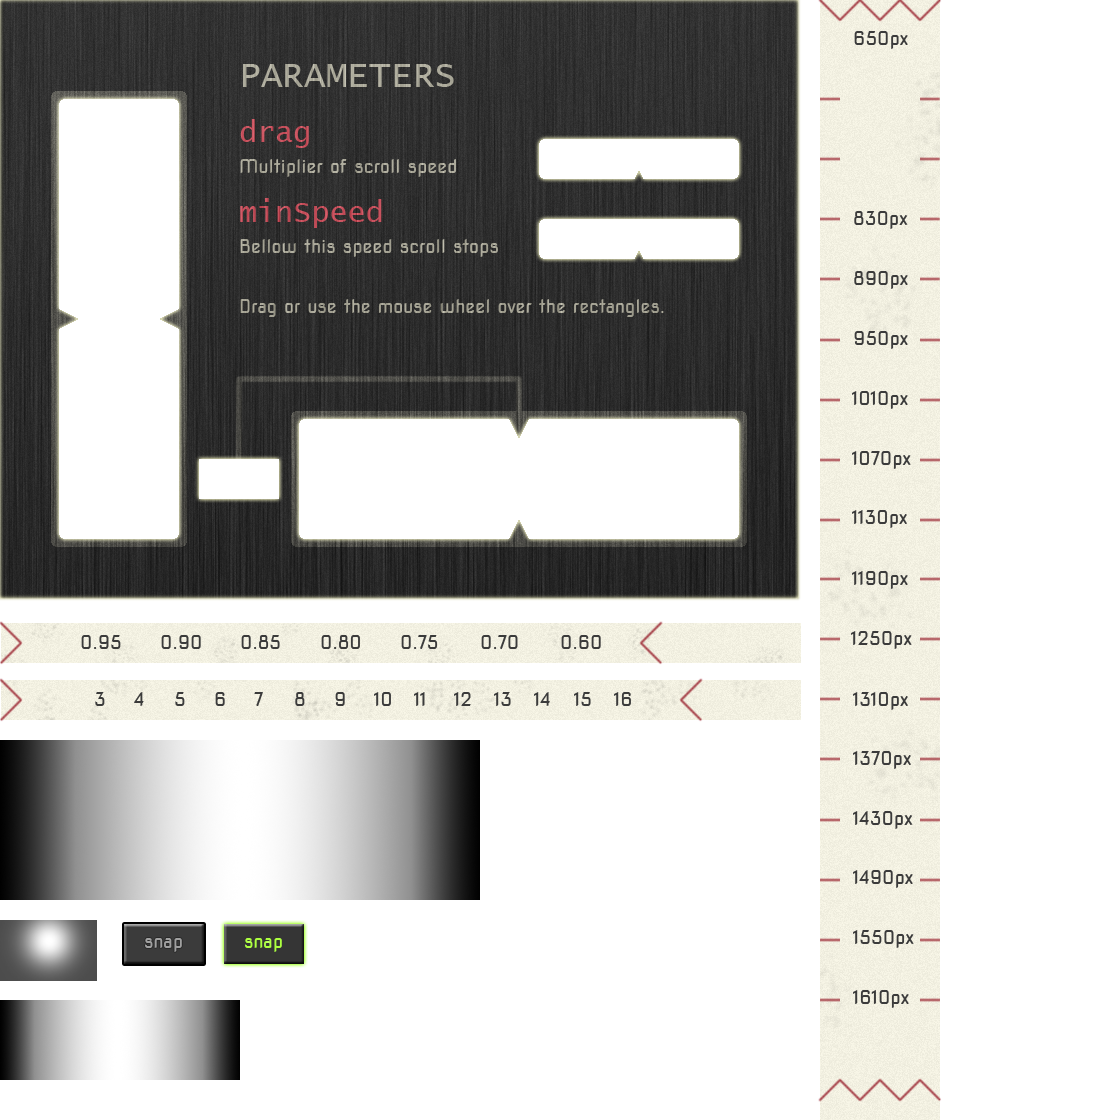
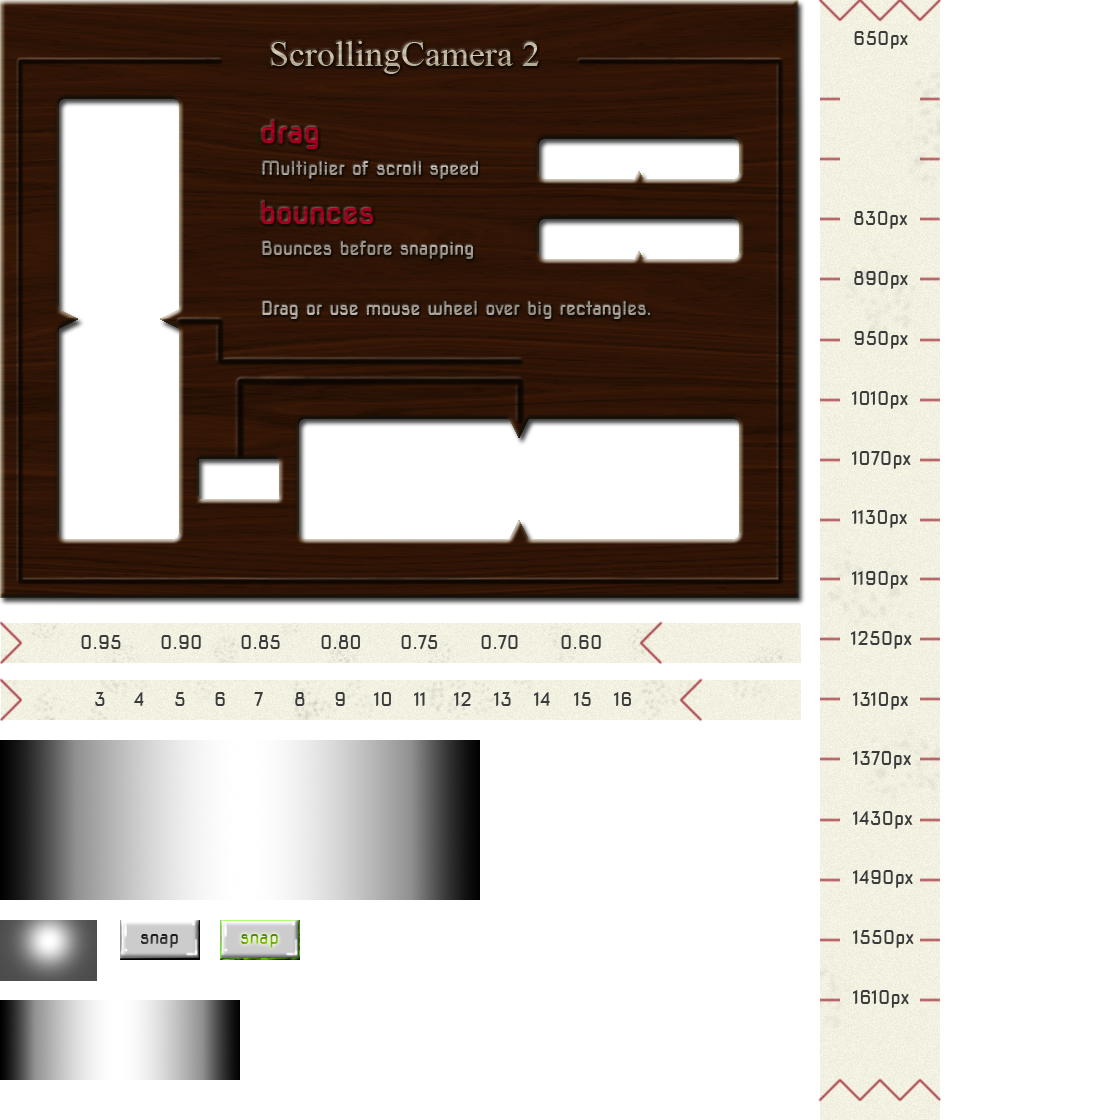
Demo: new gui

Changed region(s): [[0.0, 0.0, 0.7188, 0.5625], [0.0938, 0.8125, 0.2812, 0.875]]

diff --git a/demo/js/scenes/test.js b/demo/js/scenes/test.js
@@ -8,27 +8,27 @@ class Test extends Phaser.Scene {
     //// Images
 
     const contentCamera1 = this.add.image(60,100,'atlas','content').setOrigin(0);
-    const shade1 = this.add.image(60 - 20 ,100 - 20, 'atlas','horizontal-shade').setOrigin(0,1).setAngle(90);
+    const shade1 = this.add.image(40 ,80, 'atlas','horizontal-shade').setOrigin(0,1).setAngle(90);
 
-    const contentCamera2 = this.add.image(300 ,600-60,'atlas','content').setOrigin(0).setAngle(-90);
-    const shade2 = this.add.image(300 - 20,600-60, 'atlas','horizontal-shade').setOrigin(0,1);
+    const contentCamera2 = this.add.image(300 ,540,'atlas','content').setOrigin(0).setAngle(-90);
+    const shade2 = this.add.image(280,540, 'atlas','horizontal-shade').setOrigin(0,1);
 
     const contentCamera3 = this.add.image(540, 140, 'atlas', 'drag').setOrigin(0);
-    const shade3 = this.add.image(540 - 20, 140 - 20, 'atlas', 'param-shade').setOrigin(0);
+    const shade3 = this.add.image(520, 120, 'atlas', 'param-shade').setOrigin(0);
 
     const contentCamera4 = this.add.image(540, 220, 'atlas', 'minspeed').setOrigin(0);
-    const shade4 = this.add.image(540 - 20, 220 -20, 'atlas', 'param-shade').setOrigin(0);
+    const shade4 = this.add.image(520, 200, 'atlas', 'param-shade').setOrigin(0);
     
 
-    this.add.image(200, 600 - 60 - 40, 'atlas', 'value-background').setOrigin(0,1);
-    this.txtValue = this.add.text(200 + 40, 600 - 60 - 40 -45 + 23, '--', {color: '#000000'}).setOrigin(0.5,0.5);
-    this.add.image(200 - 20, 600 - 60 - 40, 'atlas', 'value-shade').setOrigin(0,1);
+    this.add.image(200, 500, 'atlas', 'value-background').setOrigin(0,1);
+    this.txtValue = this.add.text(240, 500 -45 + 23, '--', {color: '#000000'}).setOrigin(0.5,0.5);
+    this.add.image(180, 500, 'atlas', 'value-shade').setOrigin(0,1);
     
     const body = this.add.image(0,0,'atlas','body').setOrigin(0);
 
     // Button
 
-    this.button = new Button(this, 475, 350, 'atlas', 'bt-snap-off', 'bt-snap-on', true);
+    this.button = new Button(this, 475, 350, 'atlas', 'bt-snap-off', 'bt-snap-on', false);
     this.setButton();
     
 
@@ -59,8 +59,10 @@ class Test extends Phaser.Scene {
     this.button.on('pointerdown', () => {
       this.button.switchState();
       if(this.button.pressed){
-        this.camera2.snap.enable = true;
+        this.camera1.snap.enable = true;
+        this.camera2.snap.enable = true;        
       } else {
+        this.camera1.snap.enable = false;
         this.camera2.snap.enable = false;
         this.txtValue.setText('--');
       }
@@ -71,15 +73,20 @@ class Test extends Phaser.Scene {
     function getValue(snapIndex, initialValue, increment){
       return snapIndex * increment + initialValue;
     }
+    // Snap event of "drag" camera
     this.camera3.on('snap', (snapIndex) => {
       const drag = getValue(snapIndex, 0.95, -0.05);
       this.camera1.drag = drag;
       this.camera2.drag = drag;
     });
+
+    // Snap event of "bounces" camera
     this.camera4.on('snap', (snapIndex) => {
-      const minSpeed = getValue(snapIndex, 3, 1);
-      this.camera2.minSpeed = minSpeed;
+      const bounces = getValue(snapIndex, 3, 1);
+      this.camera2.snap.bounces = bounces;
     });
+
+    // Snap event of big horizontal camera
     this.camera2.on('snap', (snapIndex) => {
       this.txtValue.text = getValue(snapIndex, 830, 60);
     });
@@ -95,6 +102,10 @@ class Test extends Phaser.Scene {
         x: 60,
         y: 100,
         height: 1120
+      },
+      snap:{
+        enable: false,
+        padding: 60
       }
     }
 
@@ -105,17 +116,17 @@ class Test extends Phaser.Scene {
   setCamera2(){
     const config = {
       x: 300,
-      y: 600 - 60 - 120,
+      y: 420,
       width: 450,
       height: 120,
       contentBounds: {
         x: 300,
-        y: 600 - 60 - 120,
+        y: 420,
         width: 1120
       },
       wheel: true,
       snap: {
-        enable: true,
+        enable: false,
         padding: 60
       },
       horizontal: true
